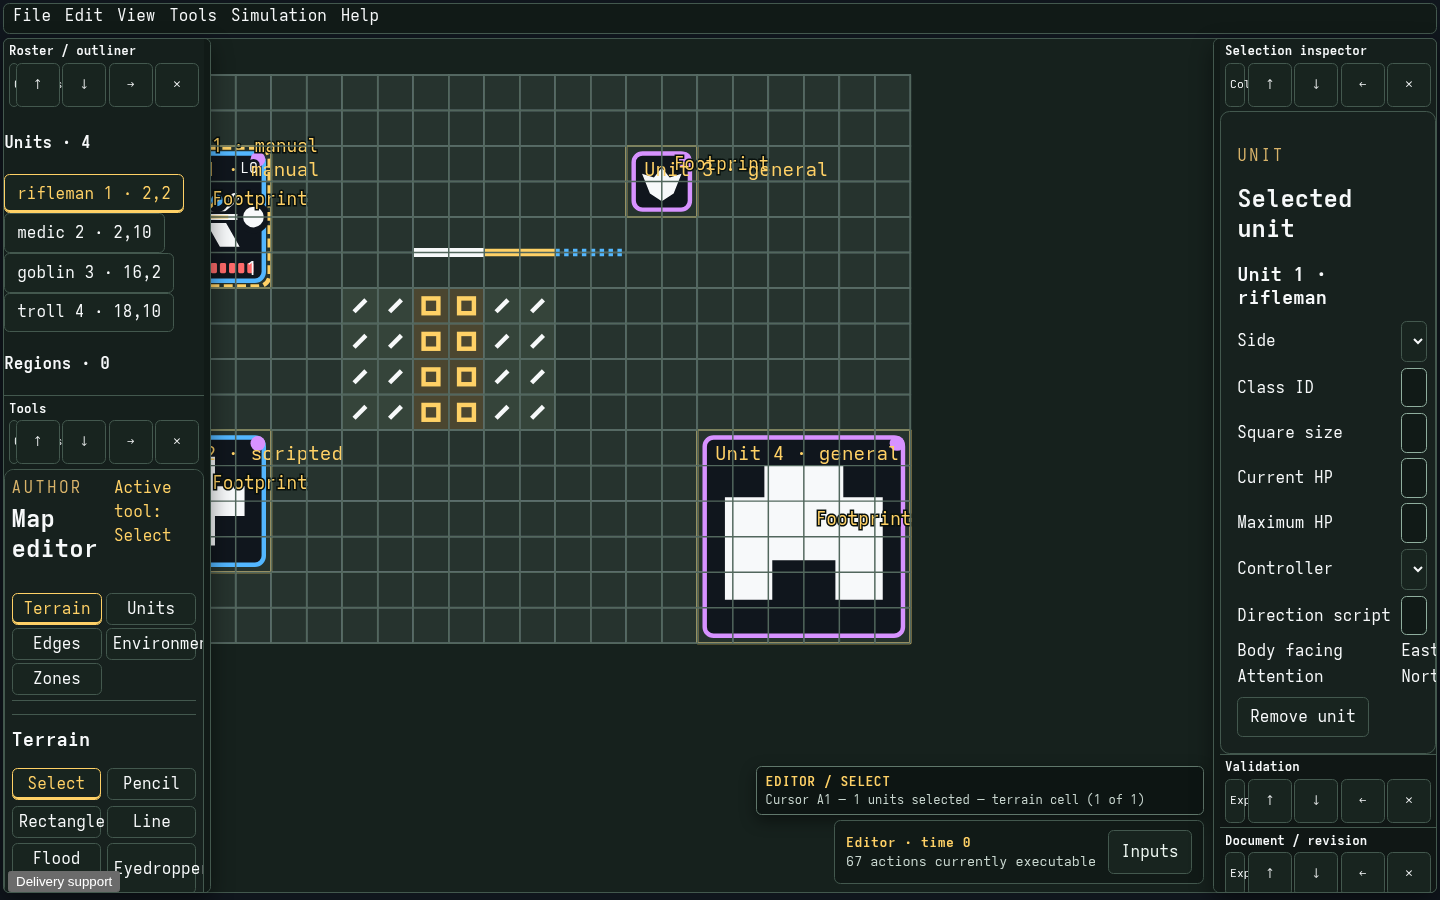
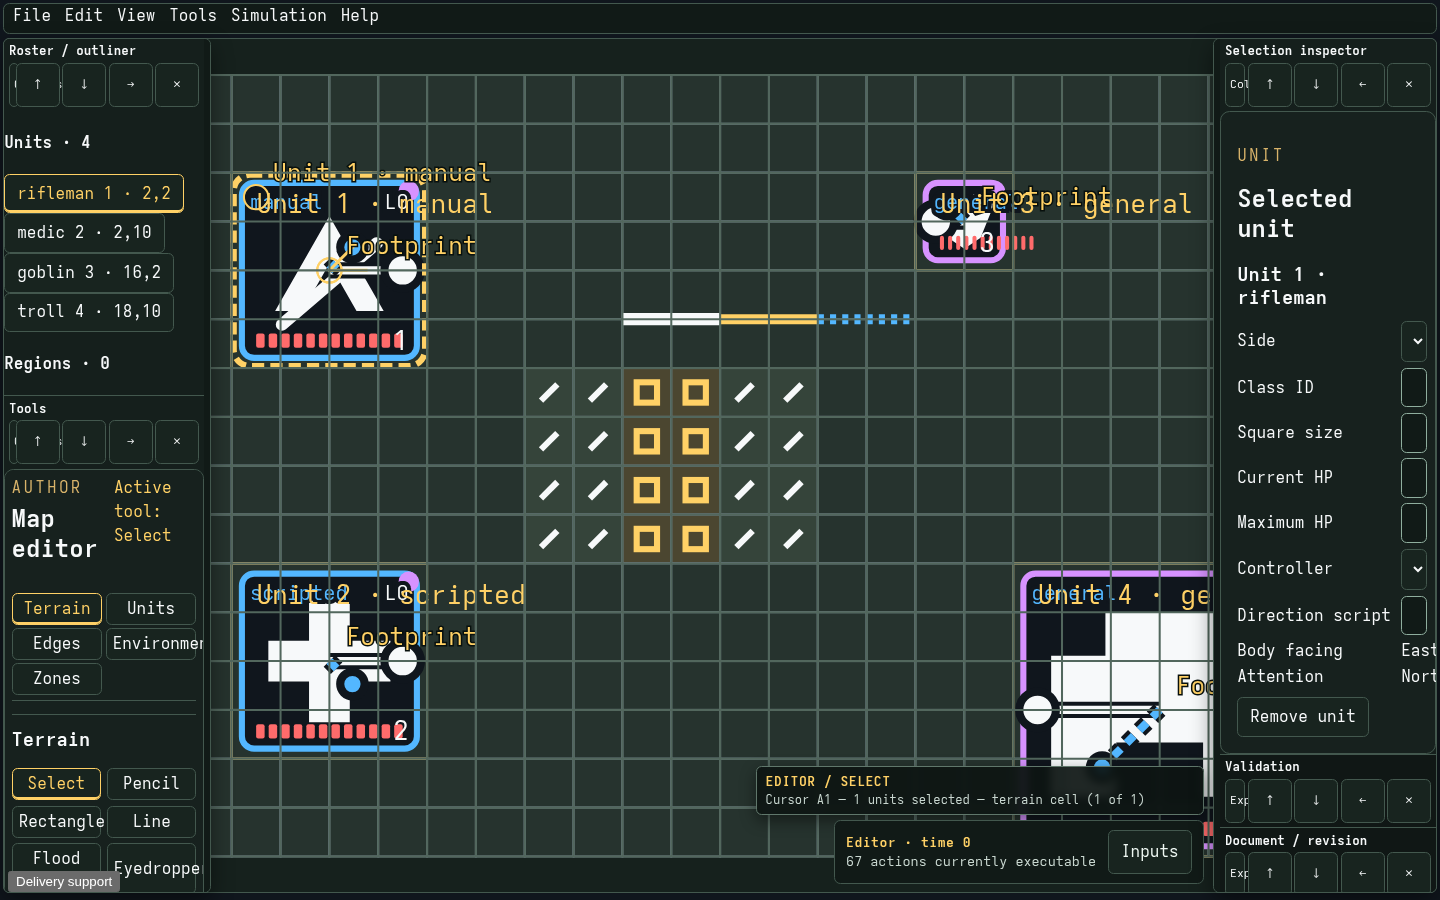
Frame the board once, and say what each retained layer depends on
Replace the camera-equality guard with an explicit one-shot latch.  The
guard asked "is the camera still the untouched initial one?", and
App.fs:361 already fits at init, so the answer was permanently no and
the guard never fired.  Camera equality cannot express the actual
question -- have we framed against a REAL viewport yet -- so record it.

HasFittedRealViewport: the first genuine measurement frames the board,
every later resize updates dimensions only.  Both invariants now hold
together:

  - the board is framed rather than pinned under the sidebar's resize
    separator, which is what made units near the origin unclickable;
  - a retained scene survives a resize unchanged, which the in-app docs
    journey asserts by resizing to 320px, never restoring, and comparing
    the camera fingerprint afterwards.

The ordering that makes this safe was verified, not assumed: of four
setViewportSize call sites, two run BEFORE goto (so they merely define
the first measurement) and two run mid-journey (which the latch
protects).  None falls between boot and the first measurement.

Asserted in three clauses, because the first two are BOTH satisfied by a
camera that re-fits on every resize -- the properties the latch preserves
are satisfiable without the latch, so only the third tests the mechanism:

  1. an untouched camera frames the board inside the viewport;
  2. a resize does not move a camera the operator has moved;
[…]

Changed region(s): [[0.125, 0.0933, 0.8438, 0.9333], [0.1562, 0.9333, 0.5625, 0.9644]]

diff --git a/tests/SIR.Browser.Tests/visible-workflows.spec.js b/tests/SIR.Browser.Tests/visible-workflows.spec.js
@@ -214,6 +214,12 @@ test("visible View commands preserve a usable tactical workspace across authorin
     }
   }
   expect(await editorLayers.evaluate(() => { window.__sirEditorLayersObserver.disconnect(); return window.__sirEditorLayersChildMutations; })).toEqual([]);
+  // Switching workspaces changes no camera, so NO retained geometry may be
+  // rebuilt -- units included. Assert that here, before the wheel and Fit below
+  // deliberately move the camera.
+  await expect(battlefield.locator("#persistent-layer-terrain-geometry")).toHaveAttribute("data-geometry-constructions", terrainGeometryBeforeModes);
+  await expect(battlefield.locator("#persistent-layer-edges-geometry")).toHaveAttribute("data-geometry-constructions", edgesGeometryBeforeModes);
+  await expect(battlefield.locator("#persistent-layer-units")).toHaveAttribute("data-geometry-constructions", unitGeometryBeforeModes);
   await switchWorkspace(page, "Editor");
   const zoomBeforeMenuCommand = Number(await battlefield.getAttribute("data-camera-zoom"));
   const battlefieldBox = await battlefield.boundingBox();
@@ -262,9 +268,21 @@ test("visible View commands preserve a usable tactical workspace across authorin
   await expect(activeReplayFile).toHaveCount(1);
   await expect(activeReplayFile).toHaveAttribute("accept", ".sirr,application/octet-stream");
   await expect(activeReplayFile).toBeEnabled();
+  // Terrain and edges are NOT viewport-culled, so the wheel zoom and Fit above
+  // must not have rebuilt them at all -- their content cannot change with the
+  // camera, and keying them on the chunk window is exactly the over-invalidation
+  // this asserts against.
   await expect(battlefield.locator("#persistent-layer-terrain-geometry")).toHaveAttribute("data-geometry-constructions", terrainGeometryBeforeModes);
   await expect(battlefield.locator("#persistent-layer-edges-geometry")).toHaveAttribute("data-geometry-constructions", edgesGeometryBeforeModes);
-  await expect(battlefield.locator("#persistent-layer-units")).toHaveAttribute("data-geometry-constructions", unitGeometryBeforeModes);
+  // Units ARE viewport-culled and tier-sensitive, so a camera change legitimately
+  // rebuilds their glyphs; asserting otherwise would demand that culling not
+  // work. What must still hold is that they are stable once the camera settles:
+  // capture after the zoom and Fit, then require the later workspace switches and
+  // selections to have rebuilt nothing further.
+  const unitGeometryAfterCamera = await battlefield.locator("#persistent-layer-units").getAttribute("data-geometry-constructions");
+  await switchWorkspace(page, "Plan");
+  await switchWorkspace(page, "Review");
+  await expect(battlefield.locator("#persistent-layer-units")).toHaveAttribute("data-geometry-constructions", unitGeometryAfterCamera);
 });
 
 test("visible Plan worker status renders while background Plan completion stays isolated", async ({ page }) => {
